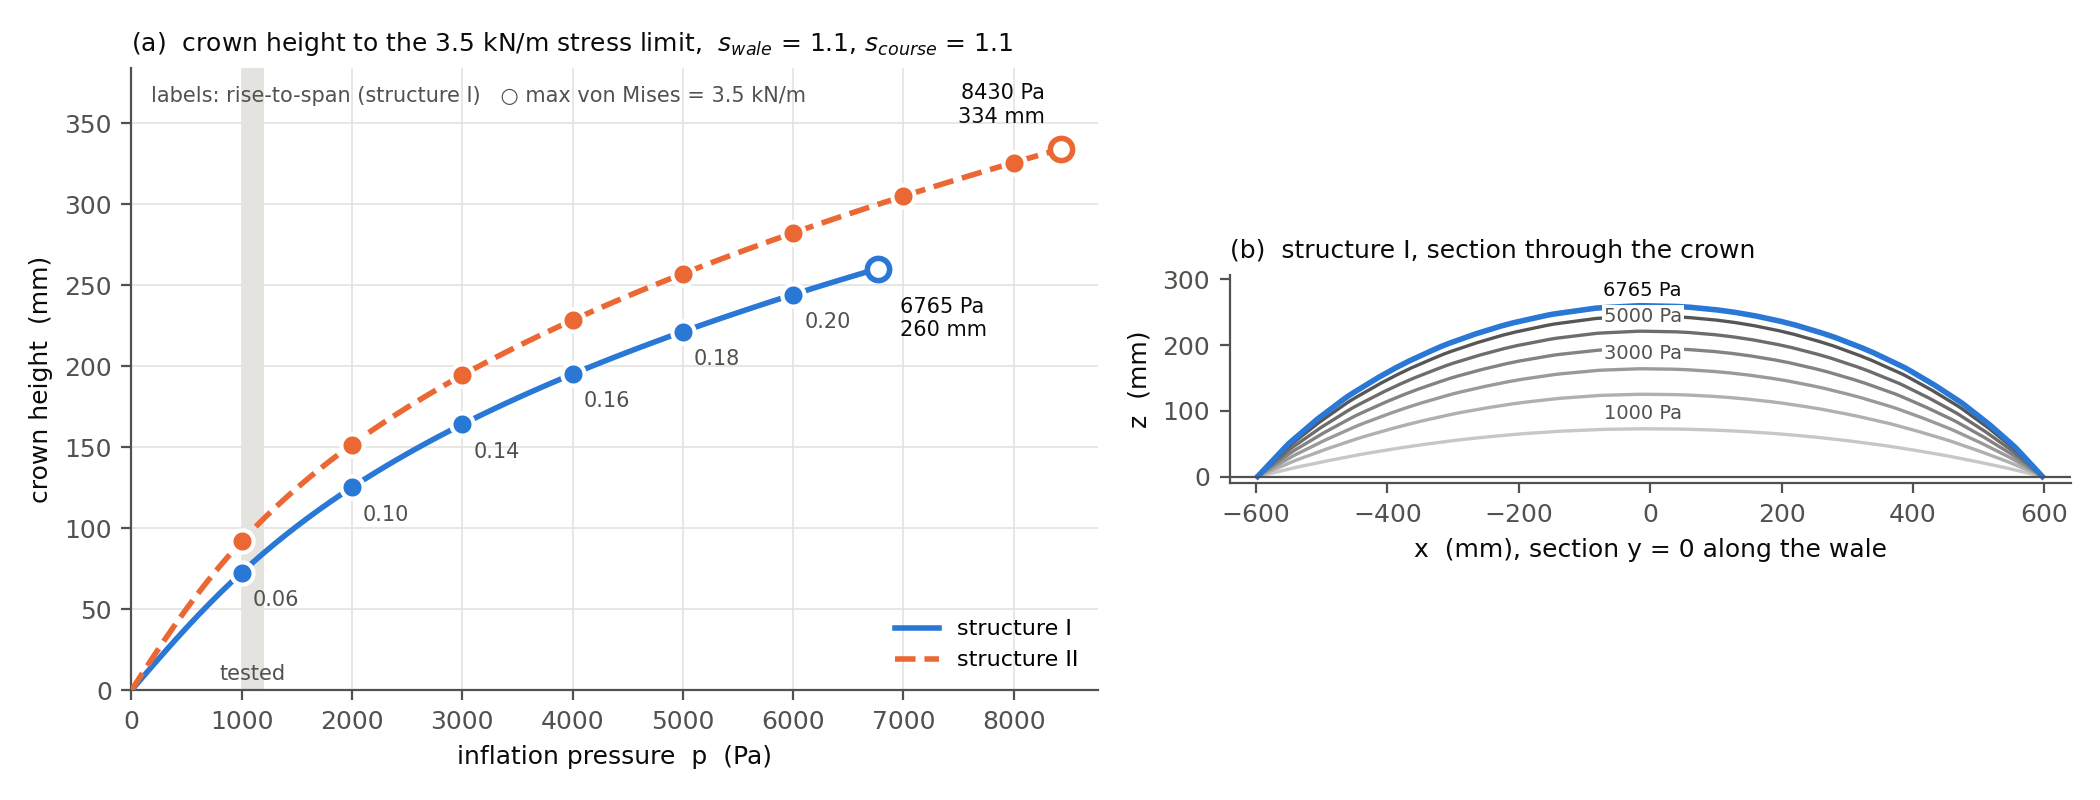
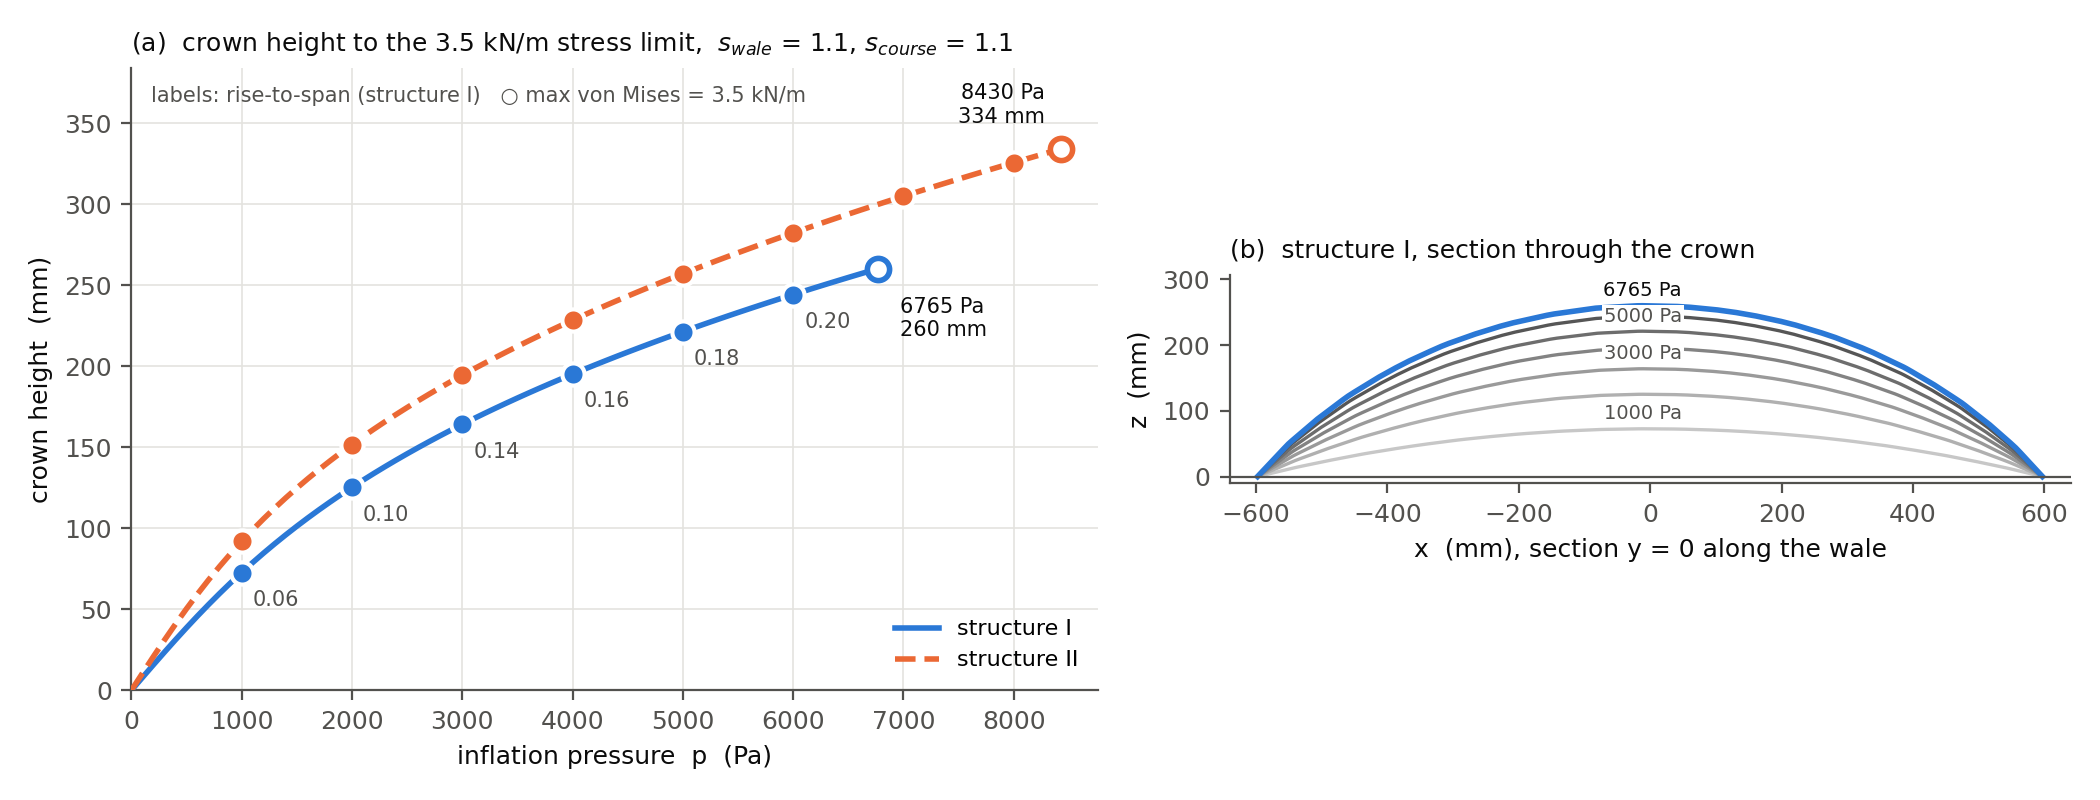
Figure 7.6: drop the shaded tested-pressure band

Changed region(s): [[0.0929, 0.0938, 0.1238, 0.6562], [0.0929, 0.6875, 0.1548, 0.875]]

diff --git a/sensitivity_analysis/plot_pressure_sweep.py b/sensitivity_analysis/plot_pressure_sweep.py
@@ -3,7 +3,7 @@ Figure 7.6: crown height against inflation pressure, from run_pressure_sweep.py.
 
 (a) crown height of structures I and II at the stated pre-strain, each curve
     ending where the max membrane stress reaches the limit; rise-to-span labelled
-    every 1000 Pa, the tested range 1000-1200 Pa shaded.
+    every 1000 Pa.
 (b) section profiles of structure I through the crown (plane y = 0, along the
     wale) at every 1000 Pa and at the limit.
 
@@ -71,8 +71,6 @@ def main():
     fig, (ax, bx) = plt.subplots(1, 2, figsize=(10.5, 4.0), gridspec_kw={"width_ratios": [1.15, 1]})
 
     # ── (a) crown height vs pressure ────────────────────────────────────────
-    ax.axvspan(1000, 1200, color=GRID, lw=0, zorder=0)
-    ax.text(1100, 4, "tested", ha="center", va="bottom", fontsize=7.5, color=INK2)
     for s, g in df.groupby("structure"):
         g = g.sort_values("pressure")
         p = np.r_[0.0, g.pressure.to_numpy()]
